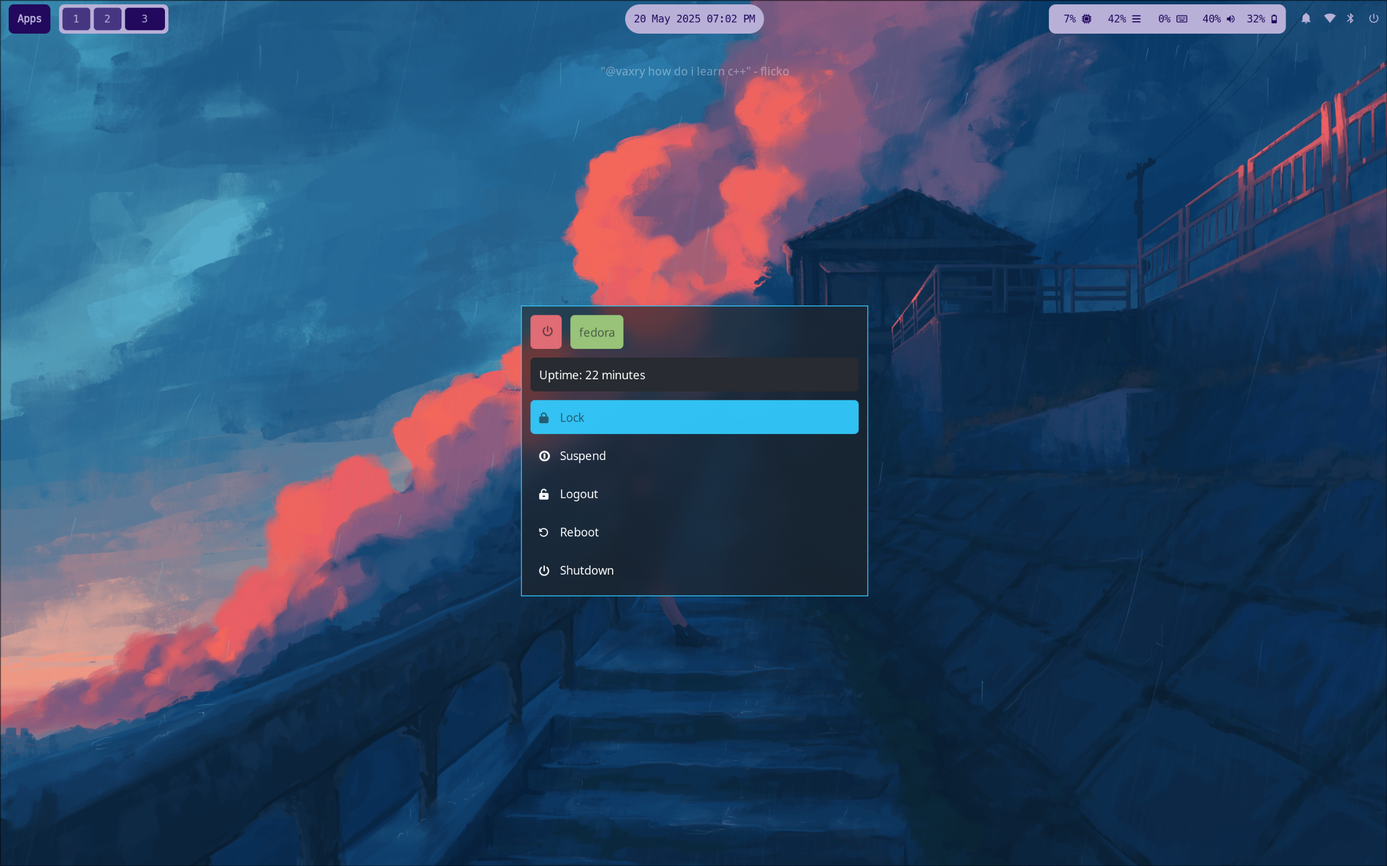
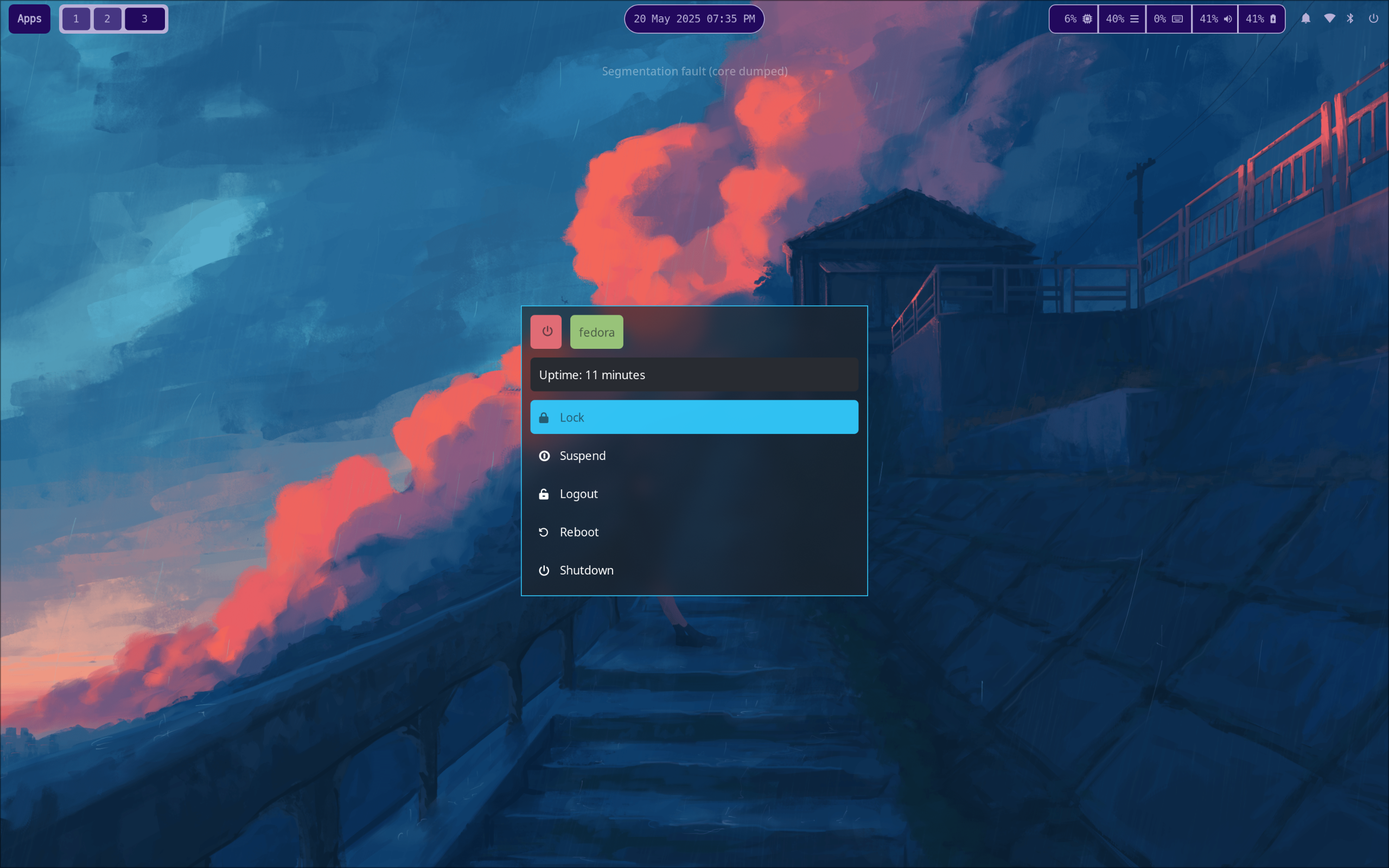
updated waybar design

diff --git a/waybar/style.css b/waybar/style.css
@@ -93,10 +93,11 @@ button:hover {
 #custom-keyboard-brightness,
 #pulseaudio,
 #custom-battery {
-  color: #22095D;
-  background: #B8B0D7;
+  background: #22095D;
+  color: #B8B0D7;
 
   margin-top: 5px;
+  border: solid 1px #B8B0D7;
 
   padding-left: 8px;
   padding-right: 8px;
@@ -115,6 +116,11 @@ button:hover {
   border-top-left-radius : 8px;
   border-bottom-left-radius : 8px;
   padding-left: 10px;
+  padding-right: 10px;
+}
+
+#memory {
+  padding-right: 10px;
 }
 
 #pulseaudio.muted {
